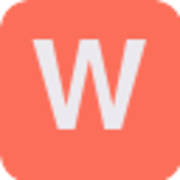
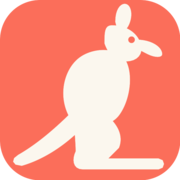
branding auto

diff --git a/wwh-archive.css b/wwh-archive.css
@@ -8,28 +8,28 @@
 @import url('https://fonts.googleapis.com/css2?family=Libre+Baskerville:wght@400;700&family=Montserrat:wght@300;400;500;700;900&family=Instrument+Serif:ital@0;1&display=swap');
 
 :root {
-  /* ----- Palette ----- */
-  --wwh-bg:           #EBE9EE;          /* AWAL light gray-pink */
-  --wwh-bg-warm:      #f4ede1;          /* WildWooHoo cream (kept for nature warmth) */
-  --wwh-ink:          #0a0a0a;
+  /* ----- Palette — aliased to the canonical --brand-* tokens in styles.css ----- */
+  --wwh-bg:           var(--brand-cream);
+  --wwh-bg-warm:      var(--brand-sand);
+  --wwh-ink:          var(--brand-ink);
   --wwh-ink-2:        #1a1a1a;
-  --wwh-text-soft:    #5b554b;
-  --wwh-text-mute:    rgba(10,10,10,.5);
-  --wwh-rule:         rgba(10,10,10,.16);
-  --wwh-rule-soft:    rgba(10,10,10,.08);
+  --wwh-text-soft:    var(--brand-stone);
+  --wwh-text-mute:    rgba(14,14,15,.5);
+  --wwh-rule:         var(--brand-rule-strong);
+  --wwh-rule-soft:    var(--brand-rule);
 
-  /* Coral signal — AWAL's #FB6E5A */
-  --wwh-signal:        #FB6E5A;
-  --wwh-signal-deep:   #d94b35;
-  --wwh-signal-soft:   #fda494;
+  /* Coral signal */
+  --wwh-signal:        var(--brand-signal);
+  --wwh-signal-deep:   var(--brand-signal-deep);
+  --wwh-signal-soft:   var(--brand-signal-soft);
 
   --wwh-paper:        #fff;
   --wwh-paper-soft:   rgba(255,255,255,.78);
 
   /* ----- Type stacks ----- */
-  --wwh-serif:    "Libre Baskerville", Georgia, "Times New Roman", serif;
-  --wwh-sans:     "Montserrat", system-ui, -apple-system, sans-serif;
-  --wwh-italic:   "Instrument Serif", "Libre Baskerville", Georgia, serif;
+  --wwh-serif:    var(--font-serif);
+  --wwh-sans:     var(--font-sans);
+  --wwh-italic:   var(--font-italic);
 }
 
 /* ==========================================================================
@@ -83,9 +83,10 @@ body.wwh-awal img { max-width: 100%; display: block; }
 .wwh-awal-brand::before {
   content: "";
   display: inline-block;
-  width: 12px; height: 12px;
-  background: var(--wwh-signal);
-  border-radius: 50%;
+  width: 26px; height: 26px;
+  background: url('/brand/logo-mark-onCoral.svg') center/contain no-repeat;
+  border-radius: 0;
+  flex: 0 0 auto;
 }
 .wwh-awal-nav {
   display: flex;
@@ -184,11 +185,13 @@ body.wwh-awal img { max-width: 100%; display: block; }
 }
 .wwh-splash-logo .mark {
   display: inline-block;
-  width: 26px; height: 26px;
-  background: var(--wwh-signal);
-  border-radius: 50%;
-  box-shadow: 0 0 0 6px rgba(251,110,90,.18);
-  transform: translateY(8px);
+  width: clamp(56px, 9vw, 116px);
+  height: clamp(56px, 9vw, 116px);
+  background: url('/brand/logo-mark-onCoral.svg') center/contain no-repeat;
+  border-radius: 0;
+  box-shadow: none;
+  transform: translateY(6px);
+  flex: 0 0 auto;
 }
 .wwh-splash-logo .name {
   font-family: var(--wwh-serif);
@@ -919,9 +922,10 @@ body.wwh-awal img { max-width: 100%; display: block; }
 .wwh-footer-brand::before {
   content: "";
   display: inline-block;
-  width: 14px; height: 14px;
-  background: var(--wwh-signal);
-  border-radius: 50%;
+  width: 34px; height: 34px;
+  background: url('/brand/logo-mark-onCoral.svg') center/contain no-repeat;
+  border-radius: 0;
+  flex: 0 0 auto;
 }
 .wwh-footer-menus {
   display: flex;

diff --git a/styles.css b/styles.css
@@ -1,32 +1,65 @@
+/* ==========================================================================
+   WILDWOOHOO — BRAND TOKEN LAYER
+   The single source of truth. Every other variable below references these.
+   See /brand/BRAND-GUIDELINES.md for the full system.
+   ========================================================================== */
 :root{
-  --bg:#f6f1e8;
-  --bg-soft:#efe7db;
-  --panel:rgba(255,255,255,0.72);
-  --panel-strong:rgba(255,255,255,0.82);
-  --text:#111111;
-  --muted:#5f5a54;
-  --line:rgba(17,17,17,0.08);
-  --line-strong:rgba(255,255,255,0.18);
-  --accent:#163a32;
-  --accent-soft:#d7e4de;
-  --shadow-soft:0 12px 40px rgba(17,17,17,0.10);
-  --shadow-card:0 20px 60px rgba(17,17,17,0.16);
-  --radius-xl:32px;
-  --radius-lg:24px;
-  --radius-md:18px;
-  --site-width:1280px;
---container-wide: 1040px;
---container-text: 760px;
---gutter-desktop: 80px;
---gutter-mobile: 24px;
-  
---space-1: 10px;
---space-2: 16px;
---space-3: 24px;
---space-4: 32px;
---space-5: 48px;
---space-6: 72px;
---space-7: 104px;}
+  /* ---- Brand: signal & nature ---- */
+  --brand-signal:        #FB6E5A;
+  --brand-signal-deep:   #E5482F;
+  --brand-signal-soft:   #FFB3A4;
+  --brand-forest:        #163A32;
+  --brand-forest-deep:   #0A2620;
+  --brand-forest-soft:   #C5D6CE;
+
+  /* ---- Brand: ink & paper ---- */
+  --brand-ink:           #0E0E0F;
+  --brand-cream:         #FBF7EE;
+  --brand-sand:          #F4ECDD;
+  --brand-stone:         #807872;
+
+  /* ---- Brand: hairlines ---- */
+  --brand-rule:          rgba(14,14,15,0.10);
+  --brand-rule-strong:   rgba(14,14,15,0.22);
+
+  /* ---- Type stacks ---- */
+  --font-serif:   "Libre Baskerville", Georgia, "Times New Roman", serif;
+  --font-italic:  "Instrument Serif", "Libre Baskerville", Georgia, serif;
+  --font-sans:    "Montserrat", Inter, ui-sans-serif, system-ui, -apple-system, BlinkMacSystemFont, sans-serif;
+
+  /* ---- Radii ---- */
+  --radius-pill: 999px;
+  --radius-xl:   34px;
+  --radius-lg:   26px;
+  --radius-md:   18px;
+
+  /* ---- Legacy aliases (do not remove until callers migrate) ---- */
+  --bg:           var(--brand-sand);
+  --bg-soft:      var(--brand-cream);
+  --panel:        rgba(255,255,255,0.72);
+  --panel-strong: rgba(255,255,255,0.82);
+  --text:         var(--brand-ink);
+  --muted:        var(--brand-stone);
+  --line:         var(--brand-rule);
+  --line-strong:  rgba(255,255,255,0.18);
+  --accent:       var(--brand-forest);
+  --accent-soft:  var(--brand-forest-soft);
+  --shadow-soft:  0 12px 40px rgba(17,17,17,0.10);
+  --shadow-card:  0 20px 60px rgba(17,17,17,0.16);
+  --site-width:   1280px;
+  --container-wide: 1040px;
+  --container-text: 760px;
+  --gutter-desktop: 80px;
+  --gutter-mobile:  24px;
+
+  --space-1: 10px;
+  --space-2: 16px;
+  --space-3: 24px;
+  --space-4: 32px;
+  --space-5: 48px;
+  --space-6: 72px;
+  --space-7: 104px;
+}
 
 .hero-content{
   position:relative;

diff --git a/brand/BRAND-GUIDELINES.md b/brand/BRAND-GUIDELINES.md
@@ -1,0 +1,154 @@
+# WildWooHoo — Brand Guidelines
+
+> Bold and modern. Nature, music, and popular culture for social impact. A creative studio with a kangaroo at its centre.
+
+---
+
+## 1. Essence
+
+**WildWooHoo** is a creative studio working at the intersection of nature, music, and popular culture, with social impact at the centre. Songs, music videos, animated series, books, and public moments. Founded by Dr WELI.
+
+The brand voice is:
+- **Confident, not loud.** We speak about big ideas in plain language.
+- **Warm, not cute.** We are playful, but never twee.
+- **Specific, not generic.** "Kangaroo behaviour" beats "wildlife." "Dance Your PhD 2024 winner" beats "award-winning."
+- **Australian-Brazilian-global.** English is the default; Portuguese, Spanish, French, German are first-class.
+
+---
+
+## 2. Logo system
+
+The mark is a leaping kangaroo silhouette — ears up, snout forward, hindleg flat on the ground, tail as counterweight. It descends directly from *Kangaroo Time* (the flagship) and *Kanga-Kangaroo* (the animated series in development).
+
+The studio name **WildWooHoo** is set in **Libre Baskerville Bold**, tight tracking, one word, capital W twice in the middle.
+
+### Files (in this folder)
+
+| File | Use |
+|---|---|
+| `logo-mark.svg` | Mark only, single colour (`currentColor`). Drop into anywhere that supports inline SVG. |
+| `logo-mark-onCoral.svg` | Mark + coral squircle background. Default favicon, app icon, social square. |
+| `logo-mark-onCream.svg` | Mark + cream squircle. Use on coral or photographic backgrounds. |
+| `logo-mark-onForest.svg` | Mark + forest squircle. Use on dark photographic backgrounds or for collaborator decks. |
+| `logo-horizontal.svg` | Mark + "WildWooHoo" wordmark, horizontal lockup. Use in headers, email signatures, presentation footers. |
+| `../favicon.svg` | Coral squircle favicon for the browser tab. |
+| `../apple-touch-icon.png` | 180×180 iOS home-screen icon. |
+| `og-image-1200x630.png` | Social share image. |
+
+### Clear space
+
+Always leave at least **one ear height** of clear space around the mark on all sides. Do not crop the tail.
+
+### Don't
+
+- Don't recolour the mark in any colour that isn't in the palette below.
+- Don't apply drop shadows, outlines, or gradients to the mark.
+- Don't rotate or skew the mark. The kangaroo always faces right.
+- Don't separate the mark from the wordmark in the horizontal lockup, or change the spacing between them.
+- Don't use the placeholder "W" favicon — it has been retired.
+
+---
+
+## 3. Colour palette
+
+The palette is anchored on two signals — **Roo Coral** and **Wild Green** — surfaced on warm neutrals.
+
+| Token | Hex | Role |
+|---|---|---|
+| `--brand-signal` | `#FB6E5A` | Roo Coral. The single most important colour. Used for the mark, the CTA, the splash accent. |
+| `--brand-signal-deep` | `#E5482F` | Burnt Coral. Hover state, emphasis, dense text on cream. |
+| `--brand-signal-soft` | `#FFB3A4` | Coral Wash. Soft tints, hairlines, subtle backgrounds. |
+| `--brand-forest` | `#163A32` | Wild Green. Anchors the "nature" half. Backgrounds, footer, deep accents. |
+| `--brand-forest-deep` | `#0A2620` | Deep Wild. The darkest green, used sparingly for the strongest contrast. |
+| `--brand-forest-soft` | `#C5D6CE` | Sage Wash. Soft pill backgrounds, tag chips. |
+| `--brand-ink` | `#0E0E0F` | Ink Black. Primary text. Slightly warm. |
+| `--brand-cream` | `#FBF7EE` | Paper Cream. Primary surface. Warmer than white. |
+| `--brand-sand` | `#F4ECDD` | Warm Sand. Secondary surface, card backgrounds. |
+| `--brand-stone` | `#807872` | Mid neutral. Secondary text, captions. |
+| `--brand-rule` | `rgba(14,14,15,0.10)` | Hairlines, borders. |
+| `--brand-rule-strong` | `rgba(14,14,15,0.22)` | Stronger borders, focus rings. |
+
+### Pairings
+
+- **Default:** `--brand-ink` text on `--brand-cream` background, `--brand-signal` for one accent per screen.
+- **Hero / footer:** `--brand-cream` text on `--brand-forest` background, `--brand-signal` for the kangaroo.
+- **Card:** `--brand-ink` text on `--brand-sand` background, no accent unless it's a CTA.
+
+Avoid more than one accent colour per screen — the discipline is part of the brand.
+
+---
+
+## 4. Typography
+
+The existing type stack is strong and we keep it. Three families, one job each.
+
+| Token | Family | Use |
+|---|---|---|
+| `--font-serif` | Libre Baskerville (700) | Display, headlines, the WildWooHoo wordmark. |
+| `--font-italic` | Instrument Serif Italic | The emphasised word inside a serif headline — *one* word per screen. |
+| `--font-sans` | Montserrat (400/500/700/900) | Body, navigation, UI, labels. |
+
+### Scale
+
+- **Splash display:** `clamp(56px, 11vw, 156px)` — used once per page.
+- **Section headline:** `clamp(34px, 4.5vw, 54px)`.
+- **Subhead / card title:** `clamp(20px, 2vw, 26px)`.
+- **Body:** `16px` / `line-height 1.5`.
+- **Caption / label:** `0.78rem`, `letter-spacing 0.12em`, `uppercase`, `font-weight 800`.
+
+Italic Instrument Serif works hardest at the *headline* level — *"One creative world."* — and should not appear in body copy.
+
+---
+
+## 5. Spacing, radii, motion
+
+| Token | Value | Use |
+|---|---|---|
+| `--radius-pill` | `999px` | Buttons, chips, the header. |
+| `--radius-xl` | `34px` | Large cards, framework panels. |
+| `--radius-lg` | `26px` | Standard cards, project tiles. |
+| `--radius-md` | `18px` | Inline pills, embed wrappers. |
+| `--space-1` to `--space-7` | `10px → 104px` | Existing scale, kept. |
+
+Motion is subtle: 200–250ms ease, no bouncy easings. The kangaroo does the leaping; the UI stays still.
+
+---
+
+## 6. Voice and copy
+
+- Sentences are short. One idea per sentence.
+- We say what we make ("Songs, music videos, animated series, books"), not what we do ("solutions").
+- We name partners and outlets specifically (Science Magazine, The Guardian, Falling Walls Engage 2025).
+- We close with action: *Work with us.*
+
+---
+
+## 7. Quick-start CSS
+
+To use the brand tokens in any page, the stylesheet `styles.css` exposes them on `:root`. Reference them directly:
+
+```css
+.wwh-button-primary {
+  background: var(--brand-signal);
+  color: var(--brand-cream);
+  border-radius: var(--radius-pill);
+  font-family: var(--font-sans);
+  font-weight: 700;
+}
+```
+
+For the mark, the preferred inline pattern is:
+
+```html
+<span class="brand-mark" aria-hidden="true">
+  <svg viewBox="0 0 100 100" width="48" height="48">
+    <use href="/brand/logo-mark.svg#root"/>
+  </svg>
+</span>
+```
+
+…or simply `<img src="/brand/logo-mark-onCoral.svg" alt="WildWooHoo">` for the squircle versions.
+
+---
+
+*Last updated: 2026-05-14. Owner: Dr WELI.*
